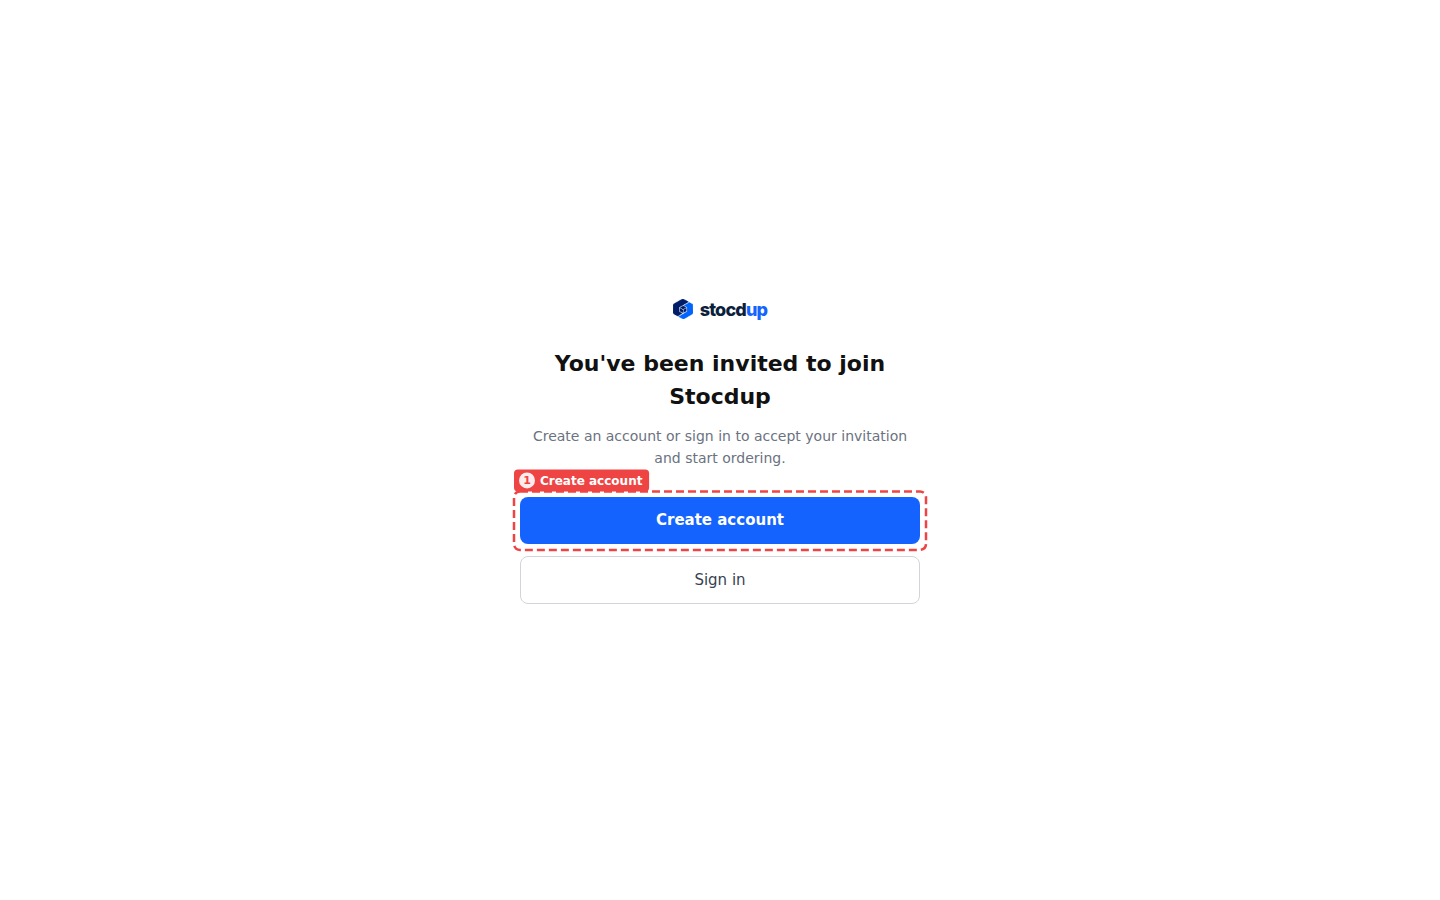
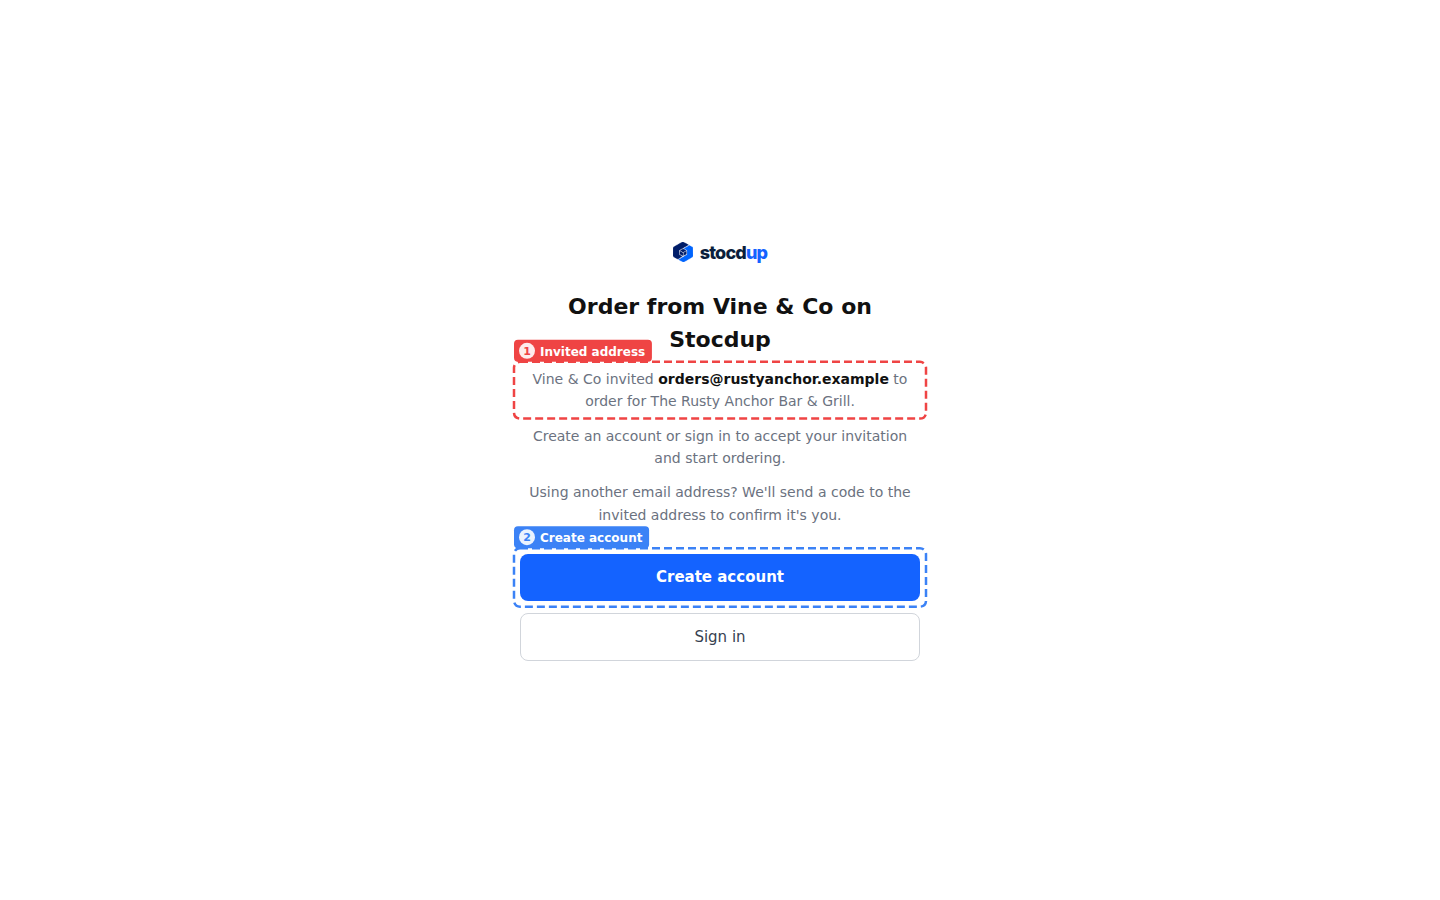
docs(help): invitation pages for prefilled email and mailbox code (ADR-081)
- accept-portal-invitation, invite-customer-to-portal, invite-team-member
  scenarios no longer say the same email is required; pages regenerated
  or reworded, new screenshots.
- New draft scenario + seed + page: accept an invitation with a different
  email address (code sent to the invited address). tom@rustyanchor.example
  added to the sign-ups teardown removes.

Changed region(s): [[0.3438, 0.4978, 0.6562, 0.7156], [0.3438, 0.2489, 0.625, 0.4667]]

diff --git a/apps/api/scripts/docs-scenarios/scenarios/index.ts b/apps/api/scripts/docs-scenarios/scenarios/index.ts
@@ -1,6 +1,7 @@
 import { ScenarioEntry } from '../lib/types';
 import acceptOrder from './accept-order';
 import acceptPortalInvitation from './accept-portal-invitation';
+import acceptPortalInvitationWithAnotherAddress from './accept-portal-invitation-with-another-address';
 import addCustomer from './add-customer';
 import addProduct from './add-product';
 import addTaxType from './add-tax-type';
@@ -37,6 +38,7 @@ import xeroInvoiceSettings from './xero-invoice-settings';
 export const SCENARIOS: Record<string, ScenarioEntry> = {
   'accept-order': acceptOrder,
   'accept-portal-invitation': acceptPortalInvitation,
+  'accept-portal-invitation-with-another-address': acceptPortalInvitationWithAnotherAddress,
   'add-customer': addCustomer,
   'add-product': addProduct,
   'add-tax-type': addTaxType,

diff --git a/apps/api/scripts/docs-scenarios/lib/ids.ts b/apps/api/scripts/docs-scenarios/lib/ids.ts
@@ -18,7 +18,7 @@ export const DOCS_ONBOARDING_SLUGS: readonly string[] = ['harbour-wines'];
  * invited customer creating their login). Every reset deletes them from Keycloak and
  * empties their inbox (lib/sign-ups.ts). Only .example addresses, which can't be real.
  */
-export const DOCS_SIGN_UP_EMAILS: readonly string[] = ['orders@rustyanchor.example'];
+export const DOCS_SIGN_UP_EMAILS: readonly string[] = ['orders@rustyanchor.example', 'tom@rustyanchor.example'];
 
 export const DOCS_USERS = {
   owner: { id: 'docs-user-owner', keycloakId: 'kc-seed-admin-1', email: 'james@vineandco.com', firstName: 'James', lastName: 'Vine' },

diff --git a/apps/api/scripts/docs-scenarios/scenarios/accept-portal-invitation-with-another-address.ts b/apps/api/scripts/docs-scenarios/scenarios/accept-portal-invitation-with-another-address.ts
@@ -1,0 +1,6 @@
+import seed from './accept-portal-invitation';
+
+// Same starting data as accept-portal-invitation: the invitation to
+// orders@rustyanchor.example, which Tom accepts as tom@rustyanchor.example with a code
+// (ADR-081). Both accounts are removed by every reset (DOCS_SIGN_UP_EMAILS).
+export default seed;

diff --git a/documentation/scenarios/accept-portal-invitation.md b/documentation/scenarios/accept-portal-invitation.md
@@ -3,7 +3,7 @@ status: draft
 persona: invited-customer
 section: getting-started
 order: 1
-related: [place-order, track-an-order, invite-customer-to-portal]
+related: [accept-portal-invitation-with-another-address, place-order, track-an-order, invite-customer-to-portal]
 ---
 # Accept an invitation to order online
 
@@ -15,8 +15,10 @@ confirm your email address, and arrive at their catalogue ready to order.
 Your supplier invites your business to order from them online by sending an invitation
 to your email address. Accepting it creates your login and connects it to your business
 on their account, so you see the products in your catalogue, at your prices, and the
-delivery days they offer you. The invitation only works for the email address it was
-sent to, and its link lasts 7 days; after that, ask your supplier to send a new one.
+delivery days they offer you. The invitation page shows the address it was sent to and
+fills it in for you when you create your account. You can sign up with a different
+address instead, but then a code is emailed to the invited address to confirm it's you.
+The link lasts 7 days; after that, ask your supplier to send a new one.
 
 ## Starting data
 - The Rusty Anchor Bar & Grill is a Vine & Co customer, not yet active, with a catalogue
@@ -27,7 +29,8 @@ sent to, and its link lasts 7 days; after that, ask your supplier to send a new 
 ## Steps
 1. Open the invitation email from Vine & Co and accept it
 2. Choose to create an account
-3. Enter your details: Tom Rowe, orders@rustyanchor.example, and a password
+3. Enter your details: Tom Rowe and a password, keeping the email address that's already
+   filled in (orders@rustyanchor.example)
 4. Confirm your email address from the email Stocdup sends you
 5. Arrive at Vine & Co's catalogue
 
@@ -37,7 +40,8 @@ shows as the business you're signed in for.
 
 ## Doc notes
 - Audience: trade customer (restaurant, bar or hotel buyer), no technical background
-- Mention: use the same email address the invitation was sent to, or it can't be accepted
+- Mention: the email address is filled in from the invitation; using a different one needs
+  a code sent to the invited address (see the related page)
 - Mention: the password rules shown on the form
 
 ## Open questions

diff --git a/documentation/scenarios/accept-portal-invitation-with-another-address.md b/documentation/scenarios/accept-portal-invitation-with-another-address.md
@@ -1,0 +1,48 @@
+---
+status: draft
+persona: invited-customer
+section: getting-started
+order: 2
+related: [accept-portal-invitation, place-order]
+---
+# Accept an invitation with a different email address
+
+## Goal
+Accept an invitation that was sent to a shared address, such as your business's orders
+inbox, with a login in your own name: create your account with your own email address,
+confirm it, then enter the code sent to the invited address.
+
+## Concept
+An invitation is sent to one email address, often a shared one. You can accept it with a
+login under a different address, but because the link alone could have been forwarded to
+anyone, Stocdup asks whoever reads the invited mailbox to approve it: it emails a 6-digit
+code there, naming the login that asked for it. The code works only for that login and
+that invitation, for 10 minutes, and allows 5 wrong tries; after that, send a new code.
+Once you're in, the invited address gets an email saying who joined, so an unexpected
+sign-up is noticed.
+
+## Starting data
+- The Rusty Anchor Bar & Grill is a Vine & Co customer, not yet active, with a catalogue
+  and a delivery profile
+- Vine & Co has sent a portal invitation to orders@rustyanchor.example
+- No login exists for orders@rustyanchor.example or tom@rustyanchor.example
+
+## Steps
+1. Open the invitation email to orders@rustyanchor.example and accept it
+2. Choose to create an account
+3. Enter your details: Tom Rowe, your own email address tom@rustyanchor.example instead of
+   the one filled in, and a password
+4. Confirm tom@rustyanchor.example from the email Stocdup sends there
+5. Ask for a code to be sent to the invited address
+6. Enter the code from the email to orders@rustyanchor.example
+7. Arrive at Vine & Co's catalogue
+
+## Done when
+Vine & Co's catalogue opens in the portal, with prices, and The Rusty Anchor Bar & Grill
+shows as the business you're signed in for.
+
+## Doc notes
+- Audience: trade customer (restaurant, bar or hotel buyer), no technical background
+- Mention: the code email names the login that asked for it; don't share the code
+- Mention: if you sign out instead, you can accept with the invited address itself (see the
+  related page)

diff --git a/documentation/scenarios/_terms.md b/documentation/scenarios/_terms.md
@@ -224,9 +224,9 @@ Source: UI, apps/admin/src/components/settings/DiscoverySettingsForm.tsx
 Where: a customer's Portal Access tab (Invitation history)
 Kind: state
 - **Pending** (shown with "Expires …"): sent and not yet used; the link works for 7 days.
-- **Accepted**: the customer used the link, and is now an Active customer.
+- **Accepted** (shown with the date, and "Accepted by" the person's name and email): the customer used the link, and is now an Active customer. The person who accepted can have a different address from the one invited, if they confirmed it with a code sent to the invited address.
 - **Expired**: the link can no longer be used, because 7 days passed or a newer invitation to the same address replaced it. Send a new one for a fresh link.
-Source: apps/admin/src/components/customers/tabs/PortalAccessTab.tsx (Expired and Revoked both shown as "Expired"); admin-customers.service.ts (7-day expiry; a new invitation revokes the earlier pending one); portal-invitations.service.ts (only PENDING, unexpired invitations can be accepted; accepting sets the customer ACTIVE)
+Source: apps/admin/src/components/customers/tabs/PortalAccessTab.tsx (Expired and Revoked both shown as "Expired"); admin-customers.service.ts (7-day expiry; a new invitation revokes the earlier pending one); portal-invitations.service.ts (only PENDING, unexpired invitations can be accepted; accepting sets the customer ACTIVE and records who accepted, ADR-081); customers.service.ts (acceptedAt, acceptedBy)
 
 ## Team member status
 Where: the Team page

diff --git a/documentation/scenarios/invite-customer-to-portal.md b/documentation/scenarios/invite-customer-to-portal.md
@@ -14,8 +14,10 @@ address.
 ## Concept
 The portal is where your customers browse the products in their catalogues, at their
 prices, and place orders themselves. The invitation is an email with a link that lasts 7
-days. The customer must accept it with the same email address it was sent to, and
-accepting it makes them an active customer if they weren't already. Sending a new
+days. The customer accepts it by creating a login with that email address, or with
+another address once they've entered a code emailed to the invited one, and accepting it
+makes them an active customer if they weren't already. Portal access then shows who
+accepted it and when. Sending a new
 invitation to the same address cancels the earlier one.
 
 ## Starting data

diff --git a/documentation/scenarios/invite-team-member.md b/documentation/scenarios/invite-team-member.md
@@ -17,7 +17,8 @@ and deliveries, but can't change company settings, connect integrations or manag
 team. Warehouse staff fulfil orders and manage deliveries, and can only view the catalogue
 and customers. You can give someone more than one role; only the Owner manages the team,
 and the Owner role can't be given by invitation. The invitation is an email with a link
-that lasts 7 days, and the person must sign up with exactly that email address.
+that lasts 7 days. The person signs up with that email address, which is filled in for
+them, or with another address once they've entered a code emailed to the invited one.
 
 ## Starting data
 - James Vine (Owner) is Vine & Co's only team member, and there are no invitations
